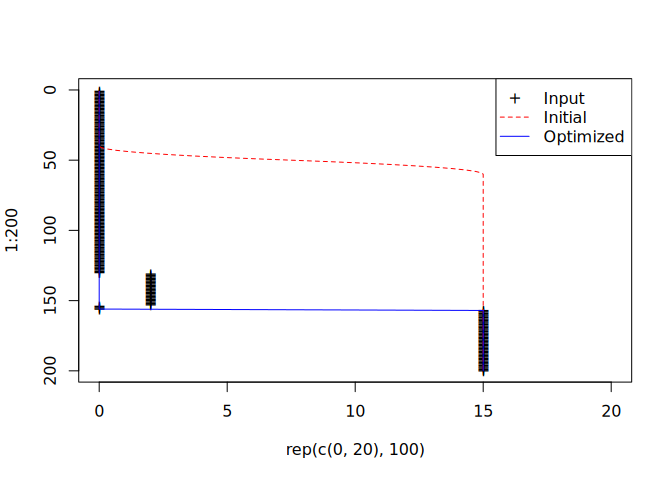
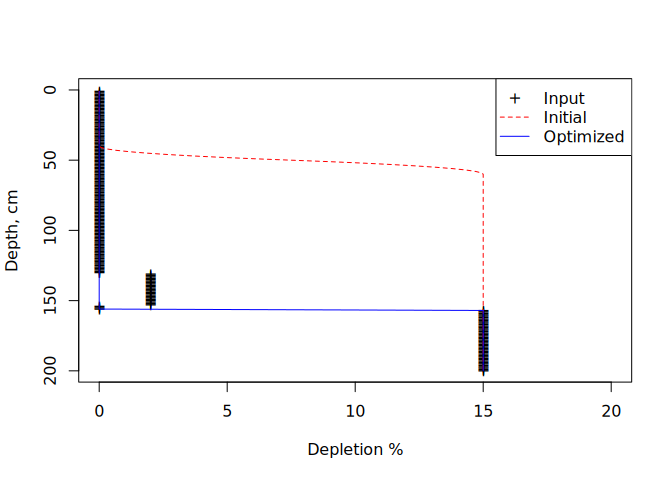
Update README

Changed region(s): [[0.4375, 0.9062, 0.625, 0.9688], [0.0, 0.375, 0.0312, 0.5625]]

diff --git a/README.md b/README.md
@@ -60,7 +60,8 @@ first guess (that the depletions appear around 40 cm and peak by 60 cm).
 ``` r
 depl_step <- rep(x$depletion_pct, x$bottom - x$top)
 
-plot(rep(c(0, 20), 100), 1:200, ylim = c(200, 0), type = "n")
+plot(rep(c(0, 20), 100), 1:200, ylim = c(200, 0), type = "n",
+     xlab = "Depletion %", ylab = "Depth, cm")
 points(depl_step, 1:200, pch = "+")
 
 # visualize what the "first guess" looks like
@@ -104,10 +105,15 @@ clay_spline <- inverse.rle(structure(list(
              49, 48, 47)), class = "rle"
 ))
 
-plot(rep(c(0, 50), 100), 1:200, ylim = c(200, 0), type = "n")
+plot(rep(c(0, 50), 100), 1:200, ylim = c(200, 0), type = "n",
+     xlab = "Clay %", ylab = "Depth, cm")
 points(clay_spline, 1:200, pch = "+")
-lines(sm_motif(clay_spline, c(40, 60)), 1:200, col = "red", lty = 2)
-lines(sm_optim(clay_spline, c(40, 60)), 1:200, col = "blue")
+lines(sm_motif(clay_spline, c(25, 100)), 1:200, col = "red", lty = 2)
+m <- sm_optim(clay_spline, c(25, 100))
+lines(m, 1:200, col = "blue")
+attr(m, "par")
+#> [1] 15.42749 73.44347
+
 legend("bottomleft", c("Input", "Initial", "Optimized"),
        pch = c("+", NA, NA),
        lty = c(NA, 2, 1),
@@ -115,3 +121,10 @@ legend("bottomleft", c("Input", "Initial", "Optimized"),
 ```
 
 <img src="man/figures/README-unnamed-chunk-3-1.png" width="100%" />
+
+In this case we find that the optimized parameters result in a steeper
+gradient of property increase than was initially guessed with parameters
+`c(25, 100)`, which had the “initial” transition centered around 63 cm.
+The “optimized” curve is shifted upwards by about 20 cm, with final
+parameters 15.4274881, 73.4434748 reflecting a smooth spline increase
+around 45 cm.
